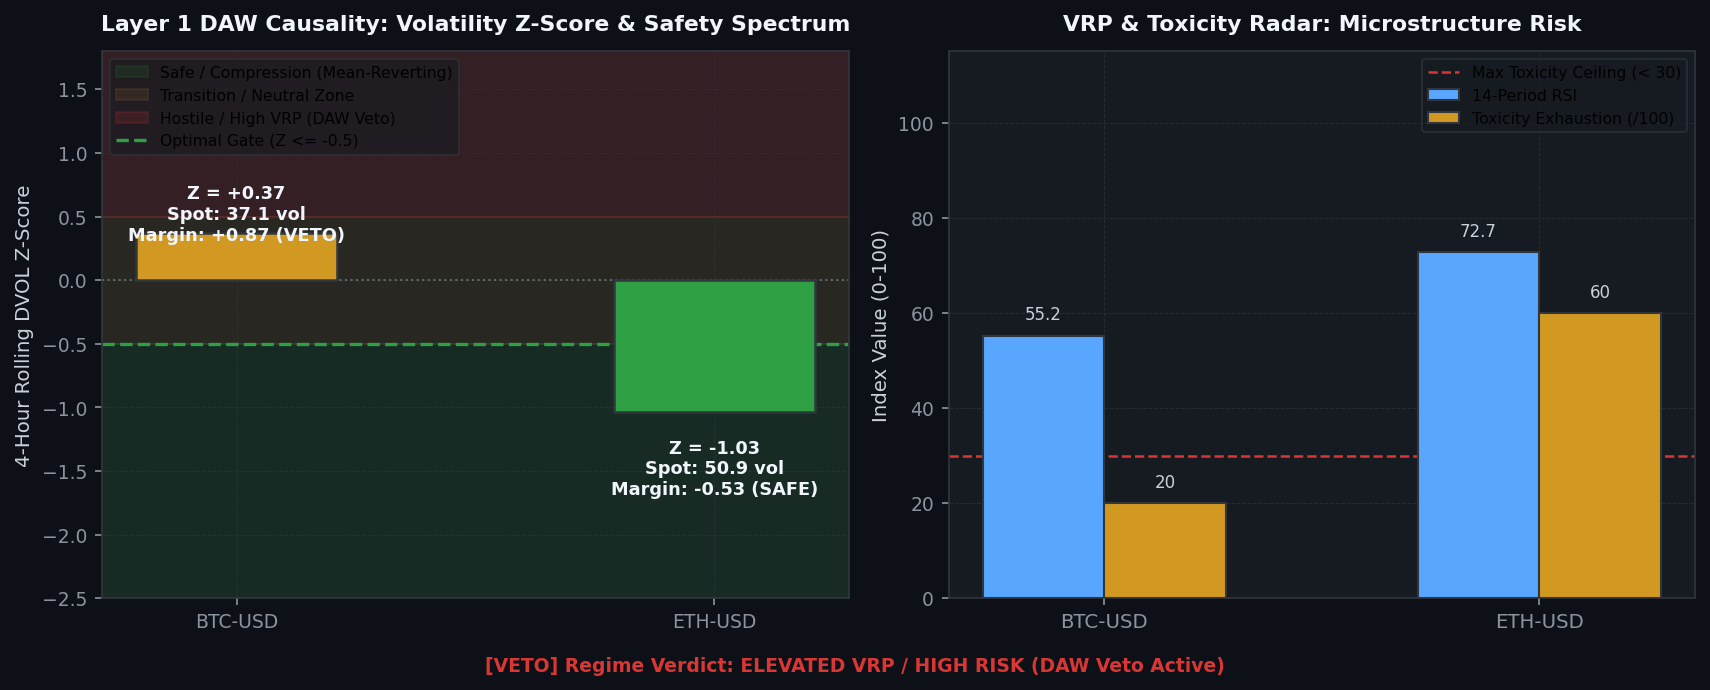
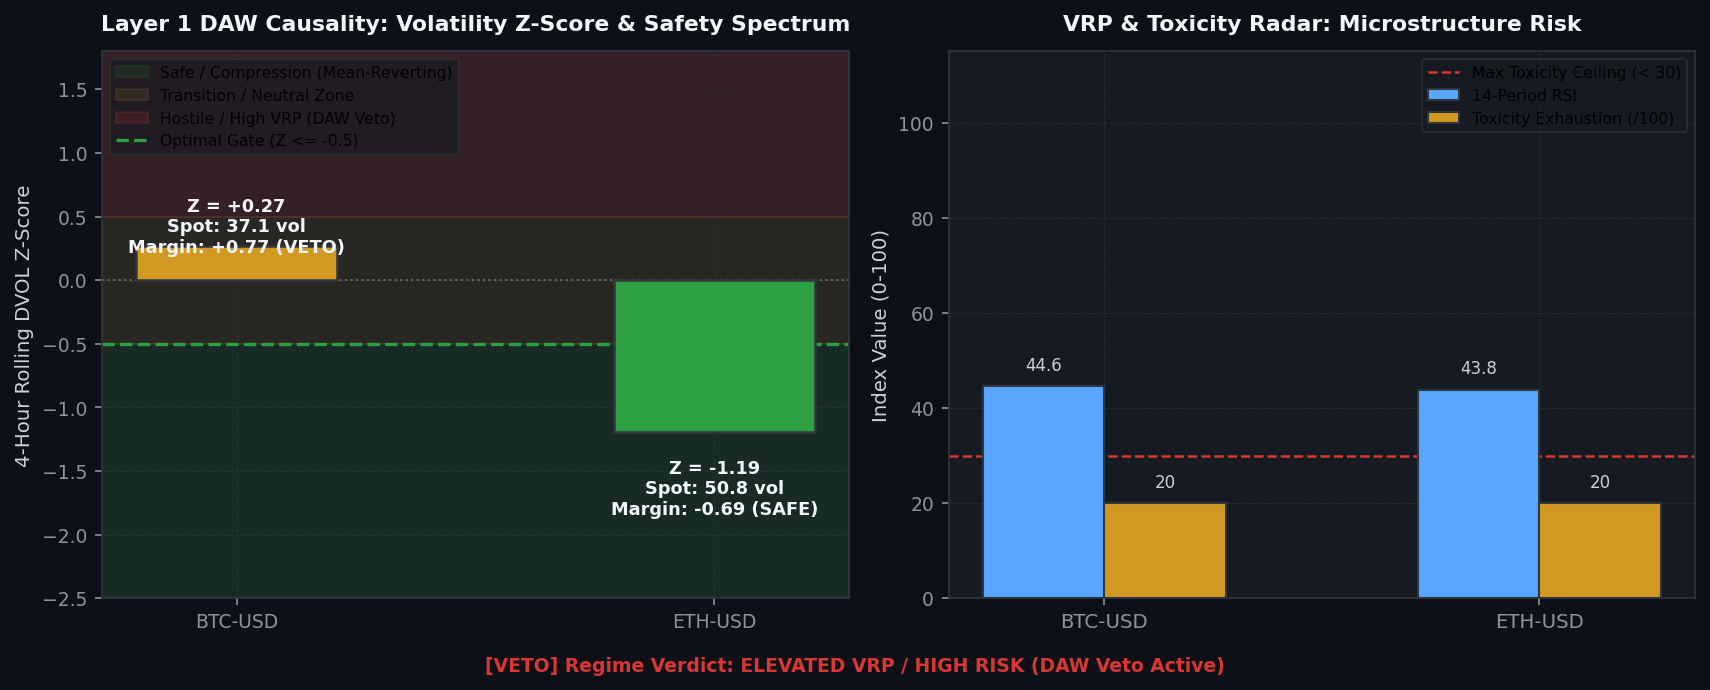
[coinbase] Hourly Status & Visual Intelligence Update: 2026-09-02 19:00:24

diff --git a/coinbase/data/hourly_status_report.md b/coinbase/data/hourly_status_report.md
@@ -3,7 +3,7 @@ layout: default
 ---
 
 # 🛡 Unified Trading System Hourly Status & Visual Intelligence
-> **Report Generated**: `2026-09-02 06:52:21 PM PDT (2026-09-03 01:52:21 UTC)`  
+> **Report Generated**: `2026-09-02 07:00:05 PM PDT (2026-09-03 02:00:05 UTC)`  
 > **System Health**: **🟡 DEGRADED / RESTRICTED** | **Win Rate**: `0.0%` | **Completed Trades**: `0`
 
 
@@ -15,13 +15,13 @@ Real-time Deribit implied volatility (DVOL) proxy tracking against mathematicall
 
 | Symbol | Proxy Oracle | Live Z-Score | Optimal Limit (YSP) | Safety Margin | Live VRP | Optimal VRP (YSP) | DAW Safety Verdict |
 | :--- | :--- | :--- | :--- | :--- | :--- | :--- | :--- |
-| `AVAX-USD` | DVOL_BTC | **+0.37** | **-0.50** | **+0.87** | **+8.03** | -1.0 | 🔴 DAW VETOED |
-| `ETH-USD` | DVOL_ETH | **-1.03** | **-0.50** | **-0.53** | **+21.85** | -1.0 | 🔴 DAW VETOED |
-| `ADA-USD` | DVOL_BTC | **+0.37** | **-0.50** | **+0.87** | **+7.34** | -1.0 | 🔴 DAW VETOED |
-| `DOGE-USD` | DVOL_BTC | **+0.37** | **-0.50** | **+0.87** | **+8.02** | -1.0 | 🔴 DAW VETOED |
-| `BTC-USD` | DVOL_BTC | **+0.37** | **-0.50** | **+0.87** | **+8.02** | -1.0 | 🔴 DAW VETOED |
-| `LINK-USD` | DVOL_BTC | **+0.37** | **-0.50** | **+0.87** | **+8.00** | -1.0 | 🔴 DAW VETOED |
-| `SOL-USD` | DVOL_BTC | **+0.37** | **-0.50** | **+0.87** | **+8.02** | -1.0 | 🔴 DAW VETOED |
+| `AVAX-USD` | DVOL_BTC | **+0.27** | **-0.50** | **+0.77** | **+7.72** | -1.0 | 🔴 DAW VETOED |
+| `ETH-USD` | DVOL_ETH | **-1.19** | **-0.50** | **-0.69** | **+21.40** | -1.0 | 🔴 DAW VETOED |
+| `ADA-USD` | DVOL_BTC | **+0.27** | **-0.50** | **+0.77** | **+7.67** | -1.0 | 🔴 DAW VETOED |
+| `DOGE-USD` | DVOL_BTC | **+0.27** | **-0.50** | **+0.77** | **+7.64** | -1.0 | 🔴 DAW VETOED |
+| `BTC-USD` | DVOL_BTC | **+0.27** | **-0.50** | **+0.77** | **+7.68** | -1.0 | 🔴 DAW VETOED |
+| `LINK-USD` | DVOL_BTC | **+0.27** | **-0.50** | **+0.77** | **+8.00** | -1.0 | 🔴 DAW VETOED |
+| `SOL-USD` | DVOL_BTC | **+0.27** | **-0.50** | **+0.77** | **+7.68** | -1.0 | 🔴 DAW VETOED |
 
 
 
@@ -37,16 +37,16 @@ We hereby certify that the mission-critical algorithmic data assets uploaded by 
 
 | Status | Data Asset | Freshness / State | Details / Timestamp |
 | :---: | :--- | :--- | :--- |
-| ✅ | **Go-List JSON** | Fresh (11.17h old) | 09-02 07:42 |
-| ✅ | **TimesFM Forecasts** | Fresh (2.84h old) | 09-02 16:02 |
-| ✅ | **Holding Times config** | Fresh (54.15h old) | 08-31 12:43 |
-| ✅ | **BTC DVOL Cache** | Fresh (0.00h old) | 09-02 18:52 |
-| ✅ | **ETH DVOL Cache** | Fresh (0.00h old) | 09-02 18:52 |
-| ✅ | **Live Trading Telemetry** | Fresh (0.00h old) | 09-02 18:52 |
+| ✅ | **Go-List JSON** | Fresh (11.30h old) | 09-02 07:42 |
+| ✅ | **TimesFM Forecasts** | Fresh (2.97h old) | 09-02 16:02 |
+| ✅ | **Holding Times config** | Fresh (54.28h old) | 08-31 12:43 |
+| ✅ | **BTC DVOL Cache** | Fresh (0.00h old) | 09-02 19:00 |
+| ✅ | **ETH DVOL Cache** | Fresh (0.00h old) | 09-02 19:00 |
+| ✅ | **Live Trading Telemetry** | Fresh (0.03h old) | 09-02 18:58 |
 
 <br>
 
-> **Utilization Certification**: ✅ **CERTIFIED.** The Guardian Watchdog is ONLINE and EC2 traders are actively querying the freshest MLOps data artifacts (Found 1935 recent read events).
+> **Utilization Certification**: ✅ **CERTIFIED.** The Guardian Watchdog is ONLINE and EC2 traders are actively querying the freshest MLOps data artifacts (Found 1931 recent read events).
 
 
 ---
@@ -55,7 +55,7 @@ Layer-by-layer tick evaluation waterfall and asset-specific performance tracking
 
 | Funnel Filter Layer | Total Rejections | % of Rejections |
 | :--- | :--- | :--- |
-| Tier 1: Macro Volatility Tensor Gate (Omega_macro) | `86,372` | **100.0%** |
+| Tier 1: Macro Volatility Tensor Gate (Omega_macro) | `86,466` | **100.0%** |
 | Tier 2: Unified Transport & Directional Engine | `0` | **0.0%** |
 | Tier 3: Continuous Hawkes-SFGK Pricer (HAS-Pricer) | `0` | **0.0%** |
 | System: Asset Cooldown Active | `0` | **0.0%** |
@@ -69,7 +69,7 @@ Layer-by-layer tick evaluation waterfall and asset-specific performance tracking
 | Asset | Trades | Win Rate | Loss Streak | Status |
 | :--- | :--- | :--- | :--- | :--- |
 | `BTC-USD` | 13 | 53.8% | 0 | 🟢 OK |
-| `ADA-USD` | 17 | 76.5% | 0 | 🟢 OK |
+| `ADA-USD` | 18 | 77.8% | 0 | 🟢 OK |
 | `DOGE-USD` | 83 | 65.1% | 4 | 🟢 OK |
 | `ETH-USD` | 39 | 56.4% | 0 | 🟢 OK |
 | `LINK-USD` | 93 | 67.7% | 0 | 🟢 OK |
@@ -87,22 +87,26 @@ Operational telemetry of the high-velocity stablecoin market-making and VIP fee 
 | **Tranche Order Sizing** | `$5,000.00 USD` | Multi-block continuous capital rotation |
 | **HFT Reserve Floor** | `$15,000.00 USD` | Unencumbered liquid USD strictly reserved for 0ms volatile strikes |
 | **Priority Interrupt Mode** | 🟢 ACTIVE FARMING | Instantly cancels U/U buys when volatile trade enters |
-| **Active BUY Tranches** | **0 Orders** (`$0.00 USD`) | Resting Limit Bids pegged to Best Bid |
-| **Active SELL Tranches** | **5 Orders** (`$24,989.00 USDT`) | Resting Limit Asks pegged to Best Ask |
-| **Total Deployed U/U Capital** | **`$24,989.00 USD`** | Active bidirectional turnover liquidity pool |
-| **Rolling 30-Day Volume** | **`$2,315,701.37 USD`** | **VIP 2** (Maker: **0.05%** / 5 bps, Taker: **0.10%**) |
-| **Next Tier Milestone (VIP 3)** | **46.3% Complete** | `$2,684,298.63 USD` to reach $5,000,000.00 threshold |
+| **Active BUY Tranches** | **1 Orders** (`$4,997.45 USD`) | Resting Limit Bids pegged to Best Bid |
+| **Active SELL Tranches** | **8 Orders** (`$39,981.50 USDT`) | Resting Limit Asks pegged to Best Ask |
+| **Total Deployed U/U Capital** | **`$44,978.95 USD`** | Active bidirectional turnover liquidity pool |
+| **Rolling 30-Day Volume** | **`$2,317,559.23 USD`** | **VIP 2** (Maker: **0.05%** / 5 bps, Taker: **0.10%**) |
+| **Next Tier Milestone (VIP 3)** | **46.4% Complete** | `$2,682,440.77 USD` to reach $5,000,000.00 threshold |
 
 
 ### Active U/U Maker Tranches on the Book
 
 | Pair | Side | Limit Price | Tranche Size | Est. Value | Order ID |
 | :--- | :--- | :--- | :--- | :--- | :--- |
+| `USDT-USD` | 🟢 **BUY** | 0.99949 | 5,000.0 | `$4,997.45` | `e3a92c7f-0843-4a33-8144-f02563c6bcdc` |
 | `USDT-USD` | 🔴 **SELL** | 0.99980 | 5,000.0 | `$4,999.00` | `3810b51b-920c-4f6d-9bb1-0c0274a5cef0` |
-| `USDT-USD` | 🔴 **SELL** | 0.99950 | 5,000.0 | `$4,997.50` | `72c7e86f-6e89-4868-b1a0-39fd9f154308` |
-| `USDT-USD` | 🔴 **SELL** | 0.99950 | 5,000.0 | `$4,997.50` | `96664130-3de3-4c5e-84b3-7e4d13ec6039` |
-| `USDT-USD` | 🔴 **SELL** | 0.99950 | 5,000.0 | `$4,997.50` | `89fb54a2-ef02-490c-98f4-a9d5e0046dae` |
-| `USDT-USD` | 🔴 **SELL** | 0.99950 | 5,000.0 | `$4,997.50` | `53620f75-e872-46e7-9ad3-6ecfe71e47f0` |
+| `USDT-USD` | 🔴 **SELL** | 0.99950 | 5,000.0 | `$4,997.50` | `26330716-0605-4799-b309-667f8e49ac42` |
+| `USDT-USD` | 🔴 **SELL** | 0.99950 | 5,000.0 | `$4,997.50` | `112db5a3-fc2e-4d8d-9458-ebff9d7bbc6d` |
+| `USDT-USD` | 🔴 **SELL** | 0.99950 | 5,000.0 | `$4,997.50` | `87721534-01a9-43db-8933-2486db239ca2` |
+| `USDT-USD` | 🔴 **SELL** | 0.99950 | 5,000.0 | `$4,997.50` | `42f1d2c8-357b-40e6-87c0-aaaf1604b2da` |
+| `USDT-USD` | 🔴 **SELL** | 0.99950 | 5,000.0 | `$4,997.50` | `349d98c2-9a32-4de1-bb3c-b59f701e62a9` |
+| `USDT-USD` | 🔴 **SELL** | 0.99950 | 5,000.0 | `$4,997.50` | `cfa66999-3109-4297-a17e-95aae11af6a8` |
+| `USDT-USD` | 🔴 **SELL** | 0.99950 | 5,000.0 | `$4,997.50` | `3c119508-2d94-4108-b404-0606a3b50e46` |
 
 
 ---
@@ -111,9 +115,8 @@ Live balance sheet and open maker liquidity positions from Coinbase CDP.
 
 | Currency | Available | Hold | Total Balance |
 | :--- | :--- | :--- | :--- |
-| `USDT` | 3947.7900 | 40000.0000 | **43947.7900** |
+| `USDT` | 8947.7900 | 35000.0000 | **43947.7900** |
 | `CRV` | 0.0500 | 0.0000 | **0.0500** |
-| `ADA` | 0.0000 | 3374.1168 | **3374.1168** |
 | `DOGE` | 0.2000 | 0.0000 | **0.2000** |
 | `FIL` | 0.0050 | 0.0000 | **0.0050** |
 | `ALEPH` | 2.4000 | 0.0000 | **2.4000** |
@@ -135,17 +138,15 @@ Live balance sheet and open maker liquidity positions from Coinbase CDP.
 | `ACH-USD` | SELL | 0.00551 | 8,234.10 | `a0d2e243-42b4-4df5-bd23-118f45998df8` |
 | `LINK-USD` | SELL | 11.14600 | 104.69 | `922deb8a-b8a1-458a-b2bc-0f5aa5ebe43c` |
 | `USDT-USD` | SELL | 0.99980 | 5,000.00 | `3810b51b-920c-4f6d-9bb1-0c0274a5cef0` |
-| `ADA-USD` | SELL | 0.20566 | 3,374.12 | `72e86384-76f9-4298-82e3-32fba1523ab6` |
-| `ETH-USD` | BUY | 2,381.61000 | 0.24 | `b851a661-e5df-4d1d-af19-f4a62b6660ff` |
-| `USDT-USD` | BUY | 0.99949 | 5,000.00 | `648c82e4-ead0-43f6-8b7b-bd85f55fb849` |
-| `USDT-USD` | BUY | 0.99949 | 5,000.00 | `0edd029a-8484-4e9d-9f2f-c31874107772` |
-| `USDT-USD` | SELL | 0.99950 | 5,000.00 | `947a3a39-d582-4123-8a6f-6994627467cc` |
-| `USDT-USD` | SELL | 0.99950 | 5,000.00 | `343ad209-f424-4421-9856-a81352573a23` |
-| `USDT-USD` | SELL | 0.99950 | 5,000.00 | `bcc82bd3-acca-4140-8c49-b78ef5d5129b` |
-| `USDT-USD` | SELL | 0.99950 | 5,000.00 | `72c7e86f-6e89-4868-b1a0-39fd9f154308` |
-| `USDT-USD` | SELL | 0.99950 | 5,000.00 | `96664130-3de3-4c5e-84b3-7e4d13ec6039` |
-| `USDT-USD` | SELL | 0.99950 | 5,000.00 | `89fb54a2-ef02-490c-98f4-a9d5e0046dae` |
-| `USDT-USD` | SELL | 0.99950 | 5,000.00 | `53620f75-e872-46e7-9ad3-6ecfe71e47f0` |
+| `DOGE-USD` | BUY | 0.08213 | 22,044.30 | `4c2c31dc-6441-4866-bfd1-af032f0ed2d4` |
+| `USDT-USD` | BUY | 0.99949 | 5,000.00 | `e3a92c7f-0843-4a33-8144-f02563c6bcdc` |
+| `USDT-USD` | SELL | 0.99950 | 5,000.00 | `26330716-0605-4799-b309-667f8e49ac42` |
+| `USDT-USD` | SELL | 0.99950 | 5,000.00 | `112db5a3-fc2e-4d8d-9458-ebff9d7bbc6d` |
+| `USDT-USD` | SELL | 0.99950 | 5,000.00 | `87721534-01a9-43db-8933-2486db239ca2` |
+| `USDT-USD` | SELL | 0.99950 | 5,000.00 | `42f1d2c8-357b-40e6-87c0-aaaf1604b2da` |
+| `USDT-USD` | SELL | 0.99950 | 5,000.00 | `349d98c2-9a32-4de1-bb3c-b59f701e62a9` |
+| `USDT-USD` | SELL | 0.99950 | 5,000.00 | `cfa66999-3109-4297-a17e-95aae11af6a8` |
+| `USDT-USD` | SELL | 0.99950 | 5,000.00 | `3c119508-2d94-4108-b404-0606a3b50e46` |
 
 
 
@@ -153,14 +154,14 @@ Live balance sheet and open maker liquidity positions from Coinbase CDP.
 ## 6. 🤖 Foundation Model MLOps & Pipeline Orchestration
 Weekly Algorithmic Mega Cap selection, Zero-shot multi-step forward return forecasts, and VSTEF parameter grid search status.
 
-- **TimesFM Forecast DB**: 🟢 Updated 2.8h ago (2026-09-02 04:02 PM PDT)
+- **TimesFM Forecast DB**: 🟢 Updated 3.0h ago (2026-09-02 04:02 PM PDT)
 - **Last Weekly VSTEF Optimization**: `2026-08-31 12:42:56 PM PDT`
-- **Next Scheduled VSTEF Run**: `2026-09-06 07:00:00 PM PDT (Monday 02:00 UTC)` (Countdown: **96.1h (4d 0h 7m)**)
+- **Next Scheduled VSTEF Run**: `2026-09-06 07:00:00 PM PDT (Monday 02:00 UTC)` (Countdown: **96.0h (3d 23h 59m)**)
 - **Promoted Parameter Gates**: $Z_{DVOL} \le -0.5$ | Holding Horizon $= 12\text{h}$
 
 ### Algorithmic Mega Cap Selection
 - **Last Run (Confirmation)**: `2026-09-02 07:42:22 AM PDT`
-- **Next Scheduled Run**: `2026-09-06 06:00:00 PM PDT (Monday 01:00 UTC)` (Countdown: **95.1h (3d 23h 7m)**)
+- **Next Scheduled Run**: `2026-09-06 06:00:00 PM PDT (Monday 01:00 UTC)` (Countdown: **95.0h (3d 22h 59m)**)
 - **Selected Mega Cap Universe**: `BTC, ETH, DOGE, SUI, XRP, SOL, ZEC`
 
 
@@ -174,20 +175,20 @@ Visualizing the impact of the VSTEF (Volatility-Synchronized Stop-Tightening Exe
 ## 7. 🖥 Multi-Node Infrastructure & Watchdog Matrix
 ```text
 ================================================================================
-   🛡  SFGK FUNNEL GUARDIAN WATCHDOG (HFT ONLY) |  01:52:18 AM
-   CPU:   9.6%  |  MEM:   7.6% (14.2GB / 15.4GB Free)
+   🛡  SFGK FUNNEL GUARDIAN WATCHDOG (HFT ONLY) |  02:00:02 AM
+   CPU:   6.3%  |  MEM:   6.0% (14.5GB / 15.4GB Free)
 ================================================================================
 SERVICE              | PID      | STATUS          | RESTARTS | INFO
 --------------------------------------------------------------------------------
-L3 Consumer          | 1521154  | RUNNING         | -        | Continuous Websocket Feed
-MAO Daemon           | 1521208  | RUNNING         | -        | Oracle Yield Analysis
-U/U Farmer           | 1521210  | RUNNING         | -        | Volume Farmer
-Trader AVAX-USD      | 1641031  | COOL-DOWN       | 110      | Next run in 14.8s
-Trader ETH-USD       | 1640105  | RUNNING         | 140      | Evaluating Funnel/Polling Order
-Trader ADA-USD       | 1628614  | RUNNING         | 257      | Evaluating Funnel/Polling Order
-Trader DOGE-USD      | 1640922  | COOL-DOWN       | 285      | Next run in 3.9s
-Trader BTC-USD       | 1640972  | COOL-DOWN       | 314      | Next run in 9.4s
-Trader LINK-USD      | 1633233  | RUNNING         | 140      | Evaluating Funnel/Polling Order
+L3 Consumer          | 1649249  | RUNNING         | -        | Continuous Websocket Feed
+MAO Daemon           | 1649364  | RUNNING         | -        | Oracle Yield Analysis
+U/U Farmer           | -        | DISABLED        | -        | Excluded from Fee Tier
+Trader AVAX-USD      | 1649914  | COOL-DOWN       | 1        | Next run in 29.7s
+Trader ETH-USD       | 1649915  | COOL-DOWN       | 1        | Next run in 29.7s
+Trader ADA-USD       | 1649916  | COOL-DOWN       | 1        | Next run in 29.7s
+Trader DOGE-USD      | 1649917  | COOL-DOWN       | 1        | Next run in 29.7s
+Trader BTC-USD       | 1649918  | COOL-DOWN       | 1        | Next run in 29.7s
+Trader LINK-USD      | 1649919  | COOL-DOWN       | 1        | Next run in 29.7s
 ```
 
 ---
@@ -206,8 +207,6 @@ Trader LINK-USD      | 1633233  | RUNNING         | 140      | Evaluating Funnel
 <summary><b>Click to expand raw incident logs</b></summary>
 
 ```text
-logs/watchdog_Trader_SOL_USD.log:2026-09-03 00:22:46 [WARNING] [async_sfgk_trader.py:_execute_api_call:299] [SOL-USD] Coinbase API Call Exception (Attempt 1/5). Func: get_product | Sleeping 1.32s... | Error: 429 Client Error: Too Many Requests 
-logs/watchdog_Trader_SOL_USD.log:2026-09-03 01:21:08 [WARNING] [async_sfgk_trader.py:_execute_api_call:299] [SOL-USD] Coinbase API Call Exception (Attempt 1/5). Func: get_product | Sleeping 1.16s... | Error: 429 Client Error: Too Many Requests 
 logs/watchdog_Trader_SOL_USD.log:2026-09-03 01:21:51 [WARNING] [async_sfgk_trader.py:_execute_api_call:299] [SOL-USD] Coinbase API Call Exception (Attempt 1/5). Func: get_accounts | Sleeping 1.24s... | Error: 429 Client Error: Too Many Requests 
 logs/watchdog_Trader_SOL_USD.log:2026-09-03 01:22:13 [WARNING] [async_sfgk_trader.py:_execute_api_call:299] [SOL-USD] Coinbase API Call Exception (Attempt 1/5). Func: get_product | Sleeping 1.43s... | Error: 429 Client Error: Too Many Requests 
 logs/watchdog_Trader_SOL_USD.log:2026-09-03 01:22:34 [WARNING] [async_sfgk_trader.py:_execute_api_call:299] [SOL-USD] Coinbase API Call Exception (Attempt 1/5). Func: get_accounts | Sleeping 1.43s... | Error: 429 Client Error: Too Many Requests 
@@ -245,7 +244,9 @@ logs/watchdog_Trader_SOL_USD.log:2026-09-03 01:39:59 [WARNING] [async_sfgk_trade
 logs/watchdog_Trader_SOL_USD.log:2026-09-03 01:41:46 [WARNING] [async_sfgk_trader.py:_execute_api_call:299] [SOL-USD] Coinbase API Call Exception (Attempt 1/5). Func: get_product | Sleeping 1.24s... | Error: 429 Client Error: Too Many Requests 
 logs/watchdog_Trader_SOL_USD.log:2026-09-03 01:42:07 [WARNING] [async_sfgk_trader.py:_execute_api_call:299] [SOL-USD] Coinbase API Call Exception (Attempt 1/5). Func: get_accounts | Sleeping 1.15s... | Error: 429 Client Error: Too Many Requests 
 logs/watchdog_Trader_SOL_USD.log:2026-09-03 01:43:12 [WARNING] [async_sfgk_trader.py:_execute_api_call:299] [SOL-USD] Coinbase API Call Exception (Attempt 1/5). Func: get_accounts | Sleeping 1.44s... | Error: 429 Client Error: Too Many Requests 
-logs/watchdog_Trader_SOL_USD.log:2026-09-03 01:44:39 [WARNING] [async_sfgk_trader.py:_execute_api_call:299] [SOL-USD] Coinbase API Call Exception (Attempt 1/5). Func: get_accounts | Sleeping 1.29s... | Error: 429 Client Error: Too Many Requests
+logs/watchdog_Trader_SOL_USD.log:2026-09-03 01:44:39 [WARNING] [async_sfgk_trader.py:_execute_api_call:299] [SOL-USD] Coinbase API Call Exception (Attempt 1/5). Func: get_accounts | Sleeping 1.29s... | Error: 429 Client Error: Too Many Requests 
+logs/watchdog_Trader_SOL_USD.log:SyntaxError: 'continue' not properly in loop
+logs/watchdog_Trader_SOL_USD.log:SyntaxError: 'continue' not properly in loop
 ```
 </details>
 

diff --git a/coinbase/data/visual_intelligence.md b/coinbase/data/visual_intelligence.md
@@ -4,7 +4,7 @@ title: Visual Intelligence Gallery
 ---
 
 # 📈 Visual Intelligence Gallery
-> **Generated:** `2026-09-02 18:52:41`
+> **Generated:** `2026-09-02 19:00:24`
 > **[Return to Main Status Report](./hourly_status_report.md)**
 
 This page visualizes the internal states, market profiles, and decision criteria of the active **3-Tier Fused Decision Engine** across all layers.
